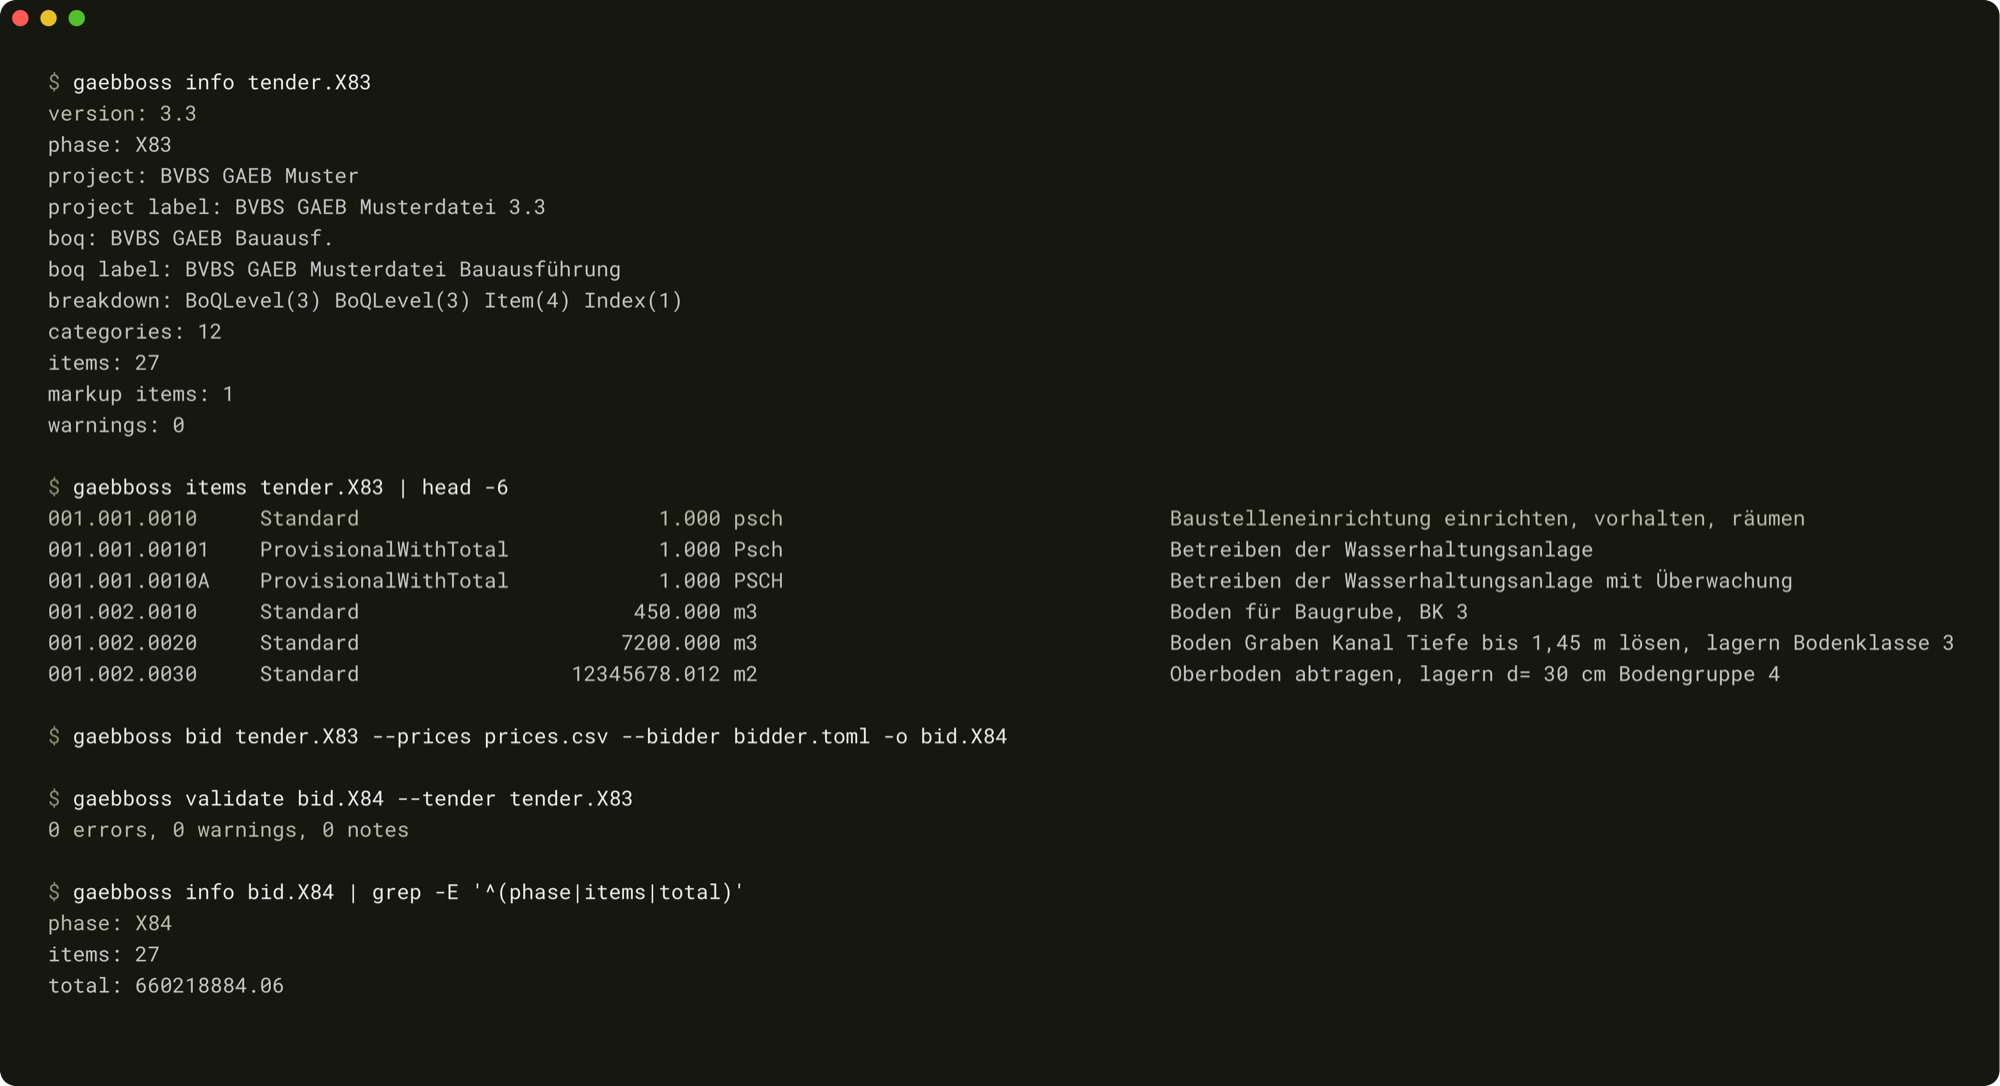
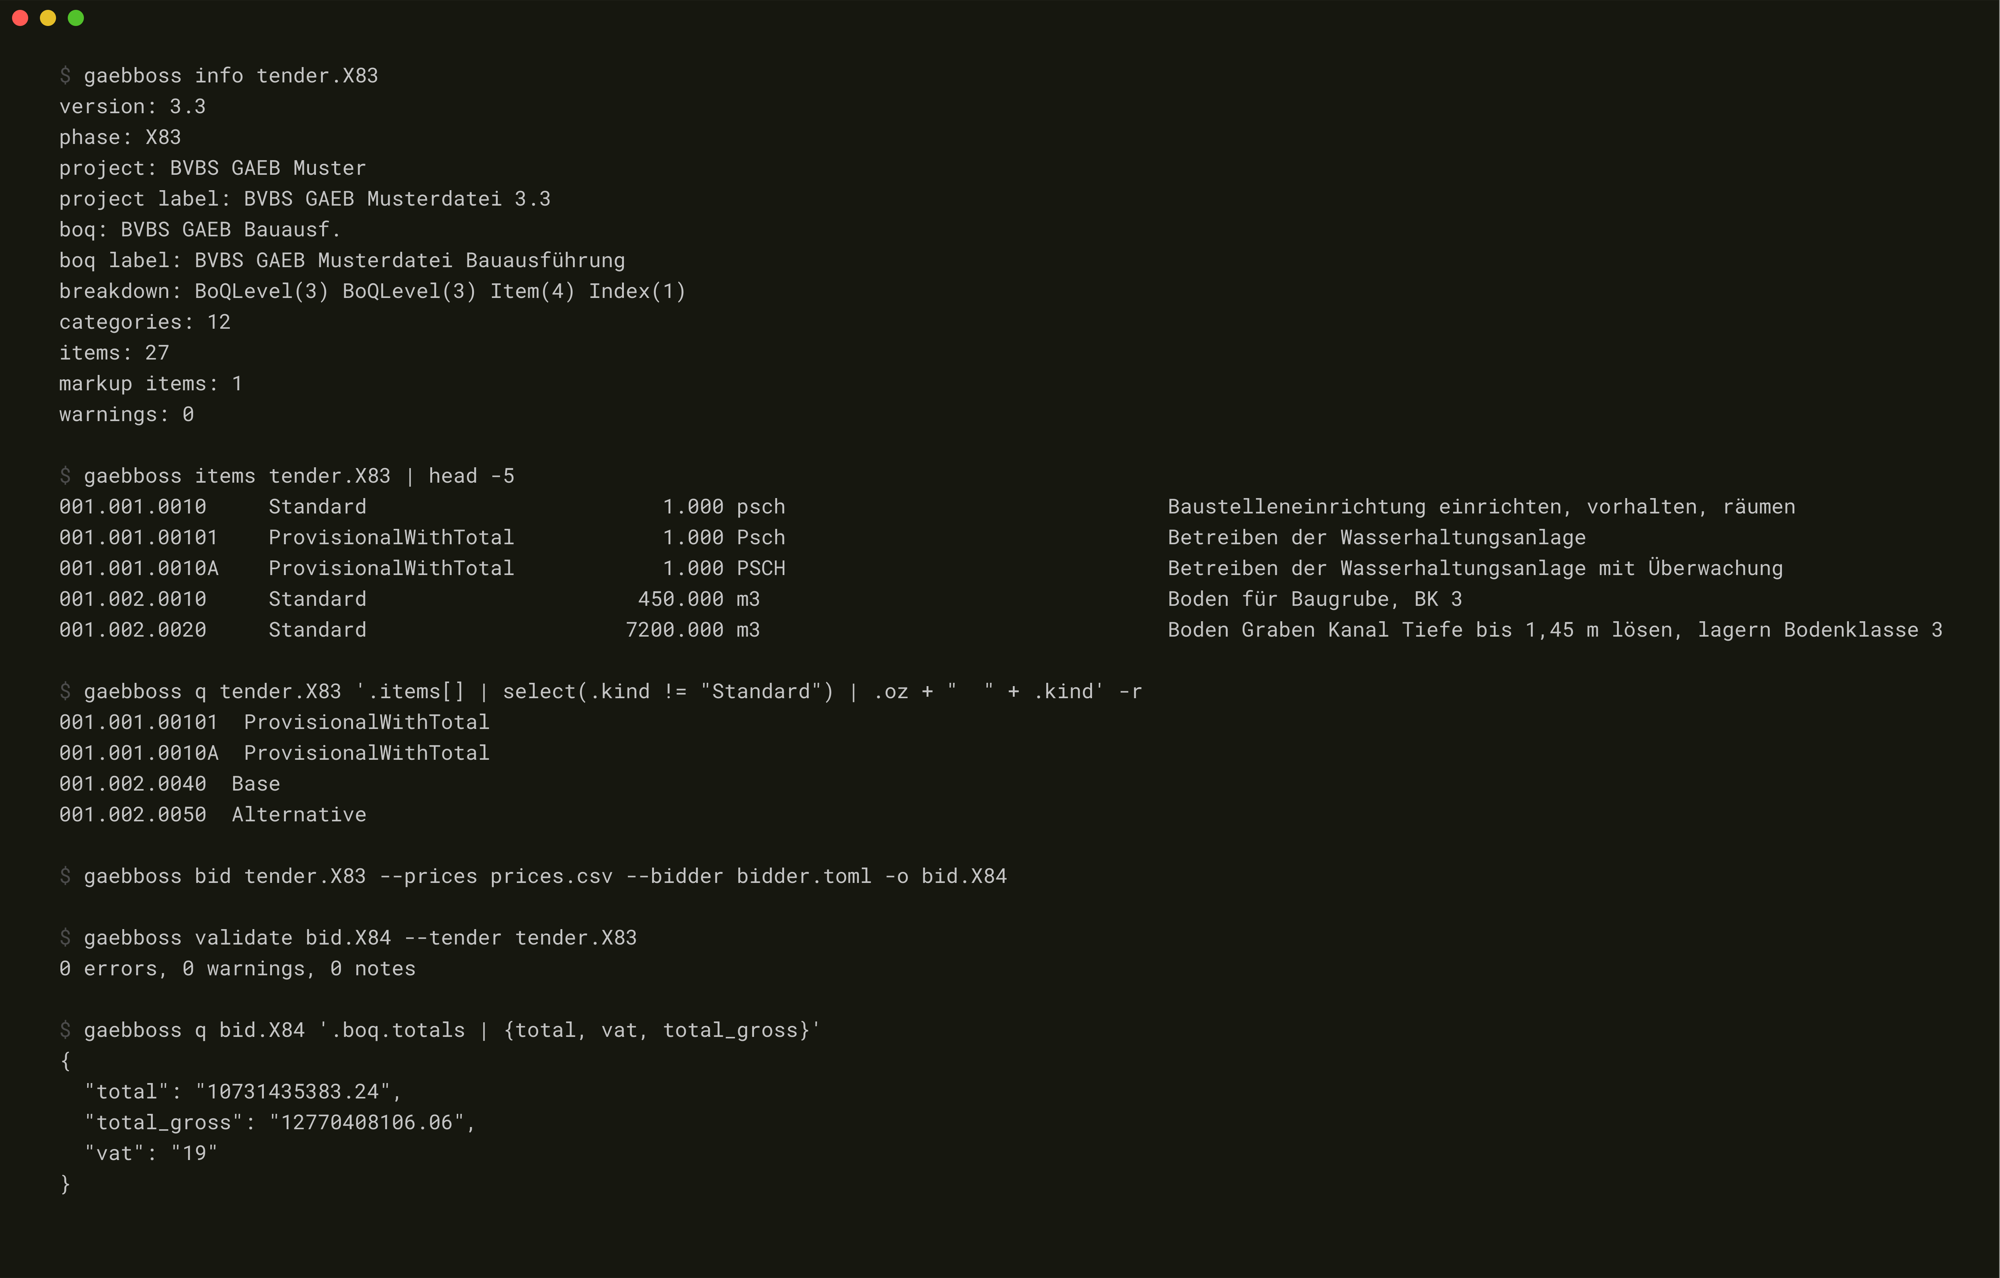
Feat/tui and cli alignment (#6)
* feat(cli)!: add tui, md, q, hex and skill; align flags and exit codes with pdfboss

gaebboss tui opens a ratatui explorer like pdfboss's: the bill as a tree,
an inspector with fields, texts and validation findings, the element's XML,
search, finding jumps and yank. It runs on tokio; the outline (validation
and long texts) and clipboard writes happen off the input loop. The CLI now
matches pdfboss: md, q (jaq), hex, skill install/show, --out, every
argument documented. Core gains Document::entries() in document order and
Document::element_range().

Verified: make ci passes, gaebboss json output identical before and after,
24 Python tests pass, the sdist builds and installs, the TUI driven in a pty
over the 2.7 MB X86 and BVBS fixtures.

BREAKING CHANGE: --output is removed in favor of --out (-o unchanged). File
and I/O errors exit 1 instead of 2; an invalid jq program or bad argument
exits 2.

* docs: refresh the CLI screenshot and add one of the TUI

The CLI shot now runs the aligned commands on the official BVBS X83: info,
items, a q query, bid with -o, validate against the tender and the bid's
totals through q. The TUI shot is gaebboss tui on the same tender after
searching for "betonpflaster": the tree, the item's fields and long text,
and its XML. Both are freeze renders at 2000 px on the old #16170F
background; the TUI uses Menlo because Roboto Mono has no box-drawing
glyphs.

Verified: both captured from the binary on this branch, the TUI driven in
[…]

diff --git a/README.md b/README.md
@@ -67,7 +67,11 @@ gaebboss skill     install                          # the bundled Claude Code sk
 `prices.csv` is `OZ;unit price` (`;`, tab or `,`, a `-` price marks an item not offered, an optional third column is the quantity of a free-quantity item). `bidder.toml` carries `name1`, `street`, `pcode`, `city` and optionally `vat_percent` and `discount_percent`.
 
 <p align="center">
-  <img src="https://raw.githubusercontent.com/4thel00z/gaebboss/main/assets/cli.png" alt="The gaebboss CLI reading the official BVBS X83, pricing it into an X84 bid and validating the bid against the tender" width="100%">
+  <img src="https://raw.githubusercontent.com/4thel00z/gaebboss/main/assets/cli.png" alt="The gaebboss CLI reading the official BVBS X83, querying it with jq, pricing it into an X84 bid, validating the bid against the tender and reading its totals" width="100%">
+</p>
+
+<p align="center">
+  <img src="https://raw.githubusercontent.com/4thel00z/gaebboss/main/assets/tui.png" alt="gaebboss tui on the official BVBS X83: the bill as a tree, the inspector with the long text of item 001.002.0040 found by search, and its XML" width="100%">
 </p>
 
 ```python

diff --git a/docs/src/guide/cli.md b/docs/src/guide/cli.md
@@ -49,6 +49,8 @@ and long text, validation findings) and the selected element's XML. The
 terminal opens at once; validation and the long texts are read in the
 background.
 
+![gaebboss tui on the official BVBS X83](https://raw.githubusercontent.com/4thel00z/gaebboss/main/assets/tui.png)
+
 | Key | Action |
 |---|---|
 | `j` `k`, arrows | move, or scroll the focused pane |
